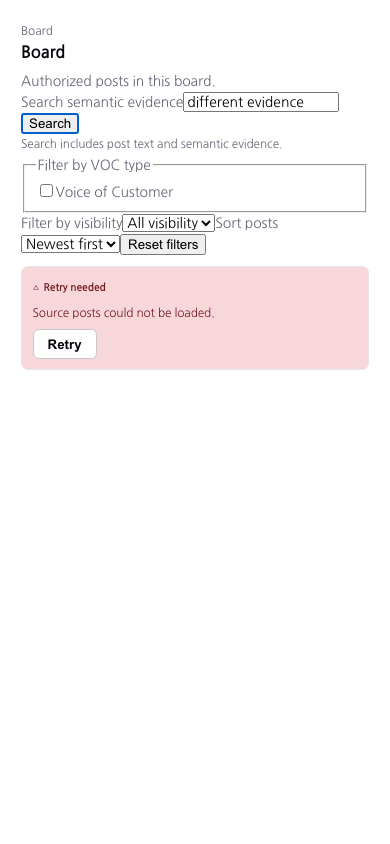
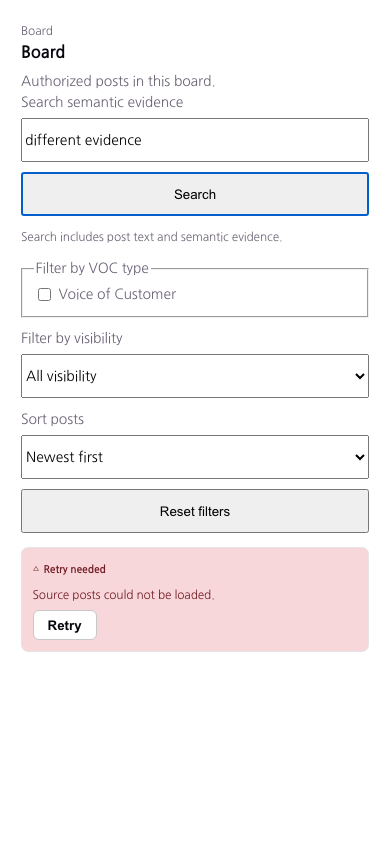
fix(board): space search controls in recovery states

diff --git a/frontend/src/App.css b/frontend/src/App.css
@@ -262,6 +262,44 @@
 }
 
 /* Post List */
+.board-controls {
+  display: grid;
+  grid-template-columns: repeat(auto-fit, minmax(min(100%, 16rem), 1fr));
+  gap: 0.75rem 1rem;
+  align-items: end;
+  margin-bottom: 1rem;
+}
+
+.board-controls > label {
+  display: grid;
+  gap: var(--space-control-gap);
+  min-width: 0;
+}
+
+.board-controls input[type="search"],
+.board-controls select {
+  width: 100%;
+  min-width: 0;
+  min-height: var(--size-touch-target);
+}
+
+.board-controls button {
+  min-height: var(--size-touch-target);
+}
+
+.board-search-help,
+.board-voc-type-filter {
+  grid-column: 1 / -1;
+  margin: 0;
+}
+
+.board-voc-type-filter label {
+  display: inline-flex;
+  align-items: center;
+  gap: var(--space-control-gap);
+  margin-right: 1rem;
+}
+
 .post-list {
   list-style: none;
   padding: 0;

diff --git a/docs/product-technical-gap-baseline.md b/docs/product-technical-gap-baseline.md
@@ -1,5 +1,47 @@
 # Product & Technical Gap Baseline
 
+## Exact-head continuation — 2026-10-24 22:40 UTC
+
+**Authority and current candidate.** The LineageWeave PRD and accepted ADRs
+0220, 0246, 0252, and 0256 remain the product and Voice authorities; ADR
+0251 governs the separate occupational layer. The linked TEPP, ThreadWeave,
+fast-mlsirm, and local DiskSage PRDs, RankWeave architecture, and
+contextual-orchestrator product authority were read before this continuation.
+Live GitHub metadata confirms the canonical repository is
+`ContextualWisdomLab/disksage`, despite the local directory's capitalization.
+At PR #1183 source head `4d550252db426bc009054874c08beca86fe0c88e`
+and base `91c3e1c7411f56408e4ce61417479ace36ff40cb`, the two formal review
+threads are resolved and outdated. Four exact-head Actions jobs failed before
+runner assignment; the Full test job has a billing-lock annotation. Bot review
+contexts are not independent approval. There is no merge SHA.
+
+**Reader gap and local repair.** A fresh desktop/mobile audit of the synthetic
+Board retry scene found that its search and filter labels ran into adjacent
+controls. The local candidate uses existing spacing and touch-target tokens to
+give each control a separate grid cell. Regenerated Storybook screenshots of
+both failed and pending searches at 1440 and 390 pixels show readable controls,
+the retry action, no stale result, and no horizontal overflow. This is rendered
+synthetic evidence, not an authenticated customer session. Local frontend lint,
+652 tests in 61 files, build, and 43 ontology/shapes tests pass; the 559.07 kB
+application-chunk warning persists. PR #1183 still needs exact-head hosted
+Checks and independent approval after this candidate is committed.
+
+**Next PR and acceptance limits.** Ready PR #1182 remains at
+`4e71264c60f4c597e5f0041b793f7b1f5f8eb74a`; its filter-option change
+touches the Post API and ADR 0212, with no direct #1183 file overlap. Its
+formal review has no approval, and its Actions jobs also failed before runner
+assignment. The active `main` ruleset 21065108 enforces non-fast-forward only;
+classic branch protection returns 404. Auto-merge remains unarmed because
+those remote settings do not enforce the PRD's independent approval and
+terminal Checks. Draft stacked PRs stay on their parent until its protected
+merge SHA exists. The `lineageweave` Compose project's PostgreSQL, Valkey,
+orchestrator, and search services are currently unhealthy, and a nonempty
+authorized synthetic k6 token file is unavailable. Authenticated PostgreSQL
+Voice persistence, rendered Voice evidence, and load/saturation acceptance
+therefore remain unverified. No sampled current records are used for a
+population claim, and no new weights, Voice combination codes, or owner-side
+measurement operations are introduced.
+
 ## Exact-head continuation — 2026-10-24 21:34 UTC
 
 **Authority and repository identity.** The current LineageWeave PRD and
